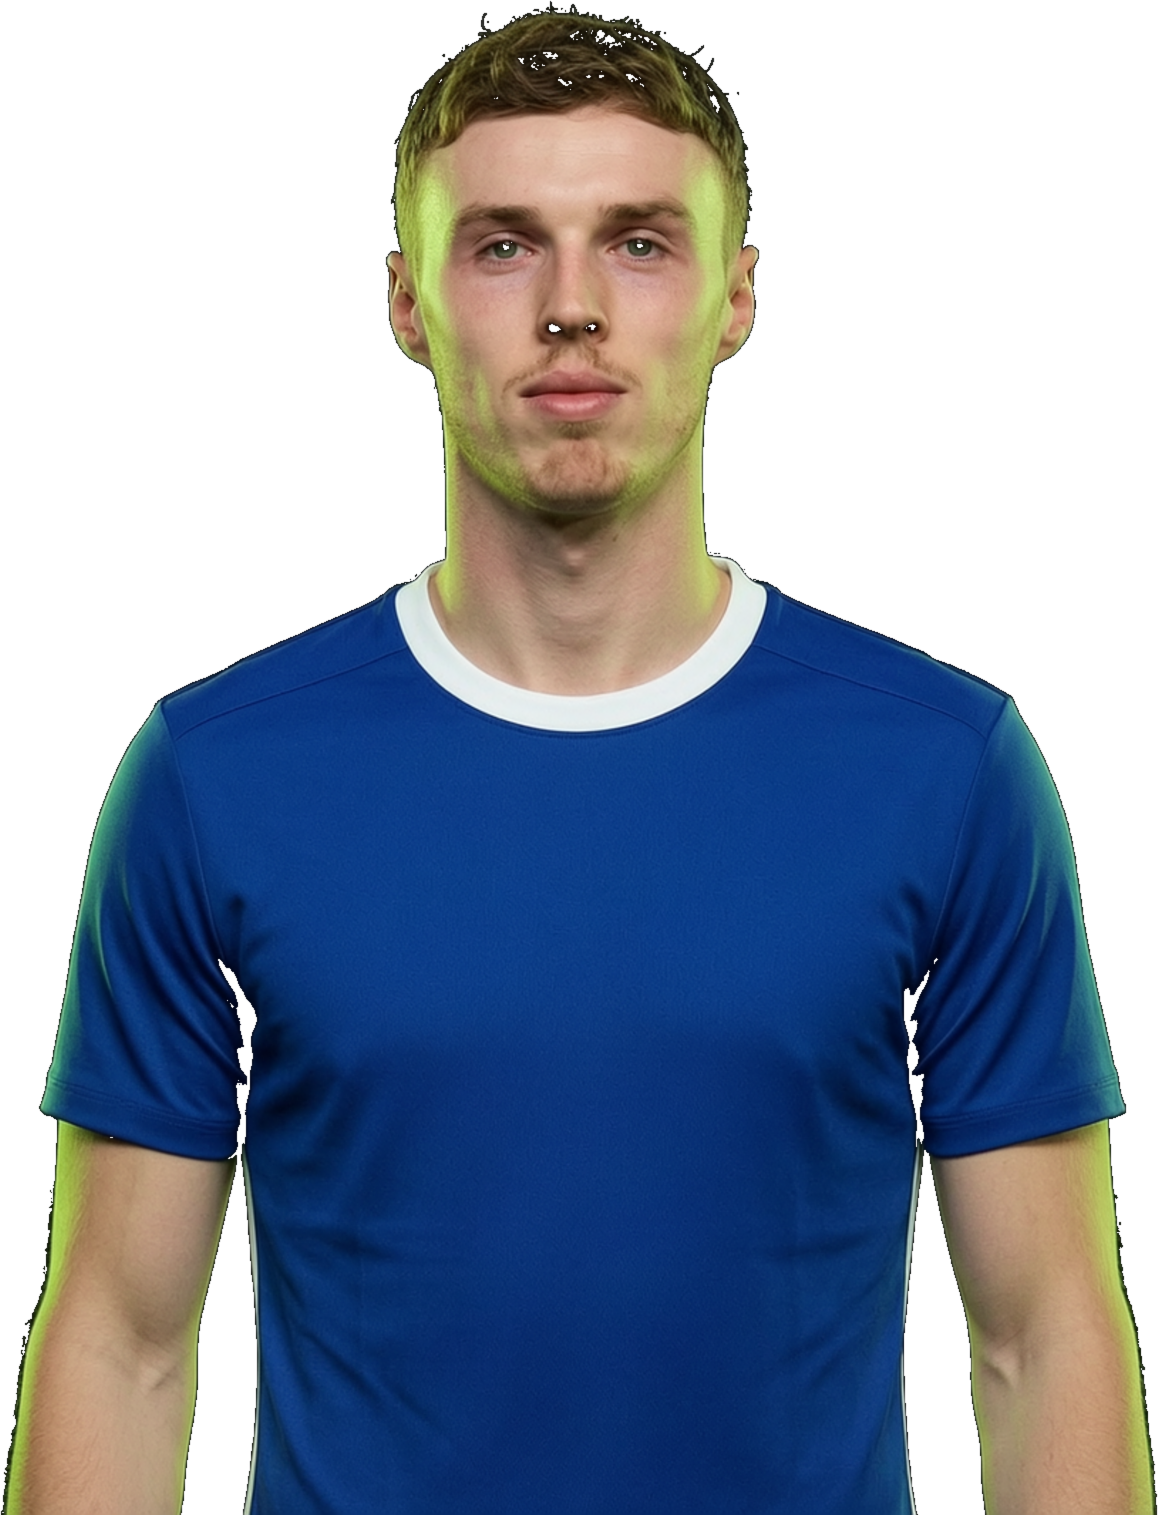
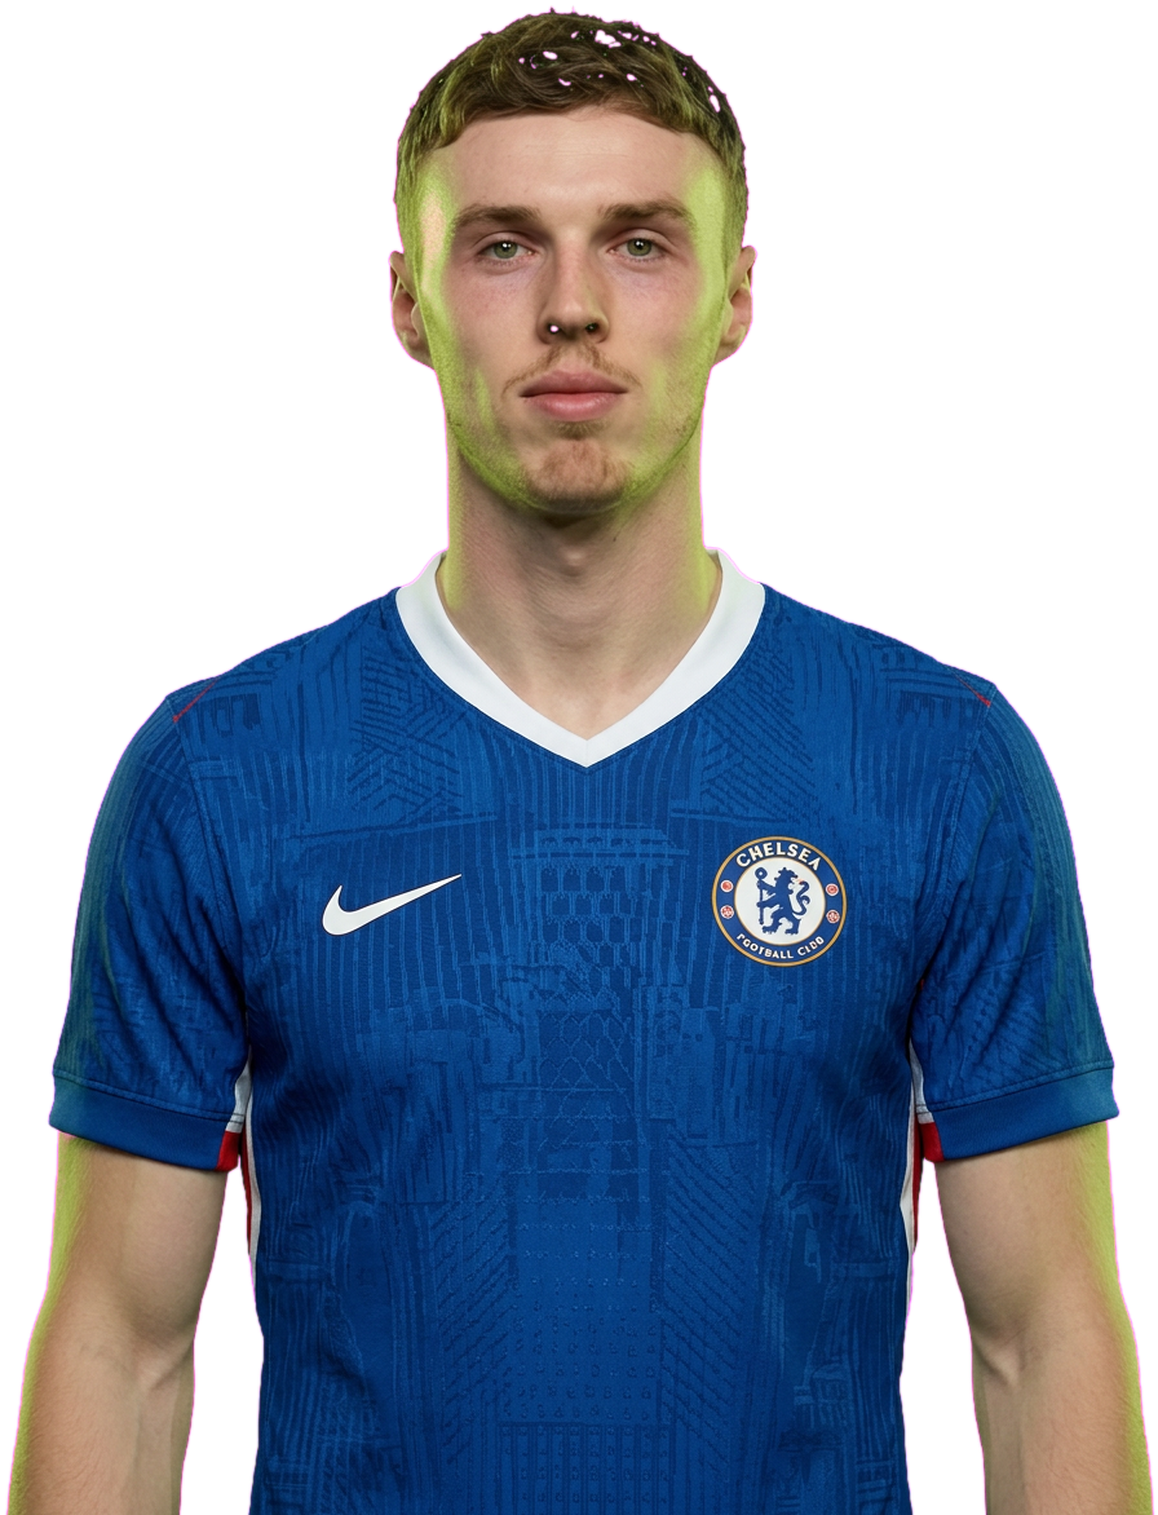
الشريحة الثانية لتذكرة الإنجليزي: قمة الجولة تشيلسي × توتنهام — بالمر ومرموش بقمصان رسمية
- FEATURED_CLASHES بات يعرف eng.1: «قمة الجولة» تشيلسي (مضيف) × توتنهام
  هوتسبير، كريستا ESPN CDN (363/367) مع بديلي الحرفين «تشي»/«توت»، وفعل
  التوكنز العربي/اللاتيني نفسه — وثائق النافذة ثابتة: نهائي أمس يبقى ظاهراً
  وموعد الغد يَظهر له عدّاد ثم تتحول حالته وحدها، وتحديث كل دقيقة.
- كول بالمر بالقميص الرسمي لتشيلسي 25-26 (نايكي ): أزرق Rush بطبعة العمارة
  اللندنية اللونية، ياقة V بيضاء، سوفوش نايكي وشعار النادي، بلا راعٍ أمامي
  — إعادة توليد على شاشة خضراء ثم مفتاح لوني وإعادة قصّة بنفس الإطار
  1158×1515.
- عمر مرموش من مرجع صوري حقيقي بالقميص الرسمي لتوتنهام 25-26 (نايكي): جسم
  أبيض ليليوايت، أكمام كحلية بتشطيب رمادي، الديك وسط الصدر فوق سوفوش كحلي
  وراعي AIA الأحمر — قصّة شفافة RGBA بعد دراسة انعكاس الكروما وإعادة
  تلوين حلقة الألفا الناعمة defringe بأنسبام الألوان العميقة.
- قرينا الحارس الآلي: صف eng.1 في clashScoreCases (نقطة 1، نقطتان، 3×2
  RTL، توكنز تشيلسي/توتنهام) — فلا انعكاس ولا انزلاق بنيوي لاحقاً.
- توثيق المكتبة في images/players/README.md حُدّث لنسختي الملابس الرسمية.

الفحوص: tsc نظيف، 487 وحدة، بناء CI كامل (775 مساراً)، واجهة 31/31،
ولقطة Playwright مؤقتة أثبتت العرض: بالمر يميناً × مرموش يساراً، النتيجة
2:3 RTL، نقطتان والثانية نشطة.

diff --git a/website/src/components/LeagueTicketCard.tsx b/website/src/components/LeagueTicketCard.tsx
@@ -113,6 +113,28 @@ const FEATURED_CLASHES: Record<string, FeaturedClash[]> = {
       awayPlayer: "/images/players/esp-yamal.png",
     },
   ],
+  "eng.1": [
+    {
+      /* الشريحة الثانية لتذكرة الدوري الإنجليزي — بياناتها حيّة من النافذة
+         نفسها (أسبوع للوراء + أسبوع للأمام): نهائية الأمس تبقى ظاهرة
+         وموعد القادمة يَظهر له عدّاد ثم تتحول الحالة وحدها */
+      eyebrow: "قمة الجولة",
+      home: {
+        name: "تشيلسي",
+        crest: "https://a.espncdn.com/i/teamlogos/soccer/500/363.png",
+        mono: "تشي",
+        tokens: ["chelsea", "تشيلسي", "تشلسي"],
+      },
+      away: {
+        name: "توتنهام هوتسبير",
+        crest: "https://a.espncdn.com/i/teamlogos/soccer/500/367.png",
+        mono: "توت",
+        tokens: ["tottenham", "spurs", "توتنهام", "توتينهام"],
+      },
+      homePlayer: "/images/players/chelsea-palmer.png",
+      awayPlayer: "/images/players/eng-marmoush.png",
+    },
+  ],
 };
 
 function isClash(match: Match | null | undefined, clash: FeaturedClash): match is Match {

diff --git a/website/tests/landing-pages.spec.ts b/website/tests/landing-pages.spec.ts
@@ -334,6 +334,20 @@ const clashScoreCases: ReadonlyArray<{
     homeScore: '3',
     awayScore: '1',
   },
+  {
+    /* الشريحة الثانية لتذكرة الإنجليزي: قمة الجولة — تشيلسي (بالمر) × توتنهام (مرموش) */
+    url: '/matches/الدوري-الإنجليزي/',
+    league: 'eng.1',
+    eyebrow: 'قمة الجولة',
+    slideIndex: 1,
+    dots: 2,
+    home: 'Chelsea',
+    away: 'Tottenham Hotspur',
+    homeName: 'تشيلسي',
+    awayName: 'توتنهام',
+    homeScore: '3',
+    awayScore: '2',
+  },
 ];
 for (const c of clashScoreCases) {
   test(`${c.league} ticket clash slide ${c.eyebrow} renders the score rtl like the schedule card, home number beside house team`, async ({ page }) => {

diff --git a/images/players/README.md b/images/players/README.md
@@ -9,7 +9,7 @@
 
 | الملف | الشخص | الدور | ملاحظات القصّ |
 |---|---|---|---|
-| `chelsea-palmer.png` | كول بالمر | لاعب | قياسي: fuzz 6% + تنعيم 0.4 + trim |
+| `chelsea-palmer.png` | كول بالمر | لاعب | قياسي: fuzz 6% + تنعيم 0.4 + trim — ثم أُلبس القميص الرسمي 25-26 (شاشة خضراء + مفتاح لوني) |
 | `chelsea-joao-pedro.png` | جواو بيدرو | لاعب | قياسي: fuzz 6% + تنعيم 0.4 + trim |
 | `chelsea-alonso.png` | تشابي ألونسو | **مدرب** | لطيف: fuzz 3% لحماية حواف السويتر الكحلي |
 
@@ -20,6 +20,12 @@
 | `eng-saka.png` | بوكايو ساكا | لاعب | قياسي: fuzz 6% + تنعيم 0.4 + trim |
 | `eng-rice.png` | ديكلان رايس | لاعب | قياسي: fuzz 6% + تنعيم 0.4 + trim |
 | `eng-arteta.png` | ميكيل أرتيتا | **مدرب** | لطيف: fuzz 3% لحماية حواف السويتر الأسود |
+
+## ⚪ صورة مربوطة بالشريحة الثانية لتذكرة الدوري الإنجليزي — «قمة الجولة»
+
+| الملف | الشخص | الدور | ملاحظات القصّ |
+|---|---|---|---|
+| `eng-marmoush.png` | عمر مرموش (بقميص توتنهام 25-26 الرسمي) | لاعب | شاشة خضراء + مفتاح لوني + إزالة انسكاب + إعادة تلوين حلقة الألفا الناعمة (defringe) |
 
 > كل الصور المخزّنة أعلاه مولّدة من مراجع صور حقيقية ومعتمدة من صاحب المشروع،
 > والزوايا الأربع شفافة (ألفا 0) — جاهزة للتركيب على التذاكر بنفس نمط
